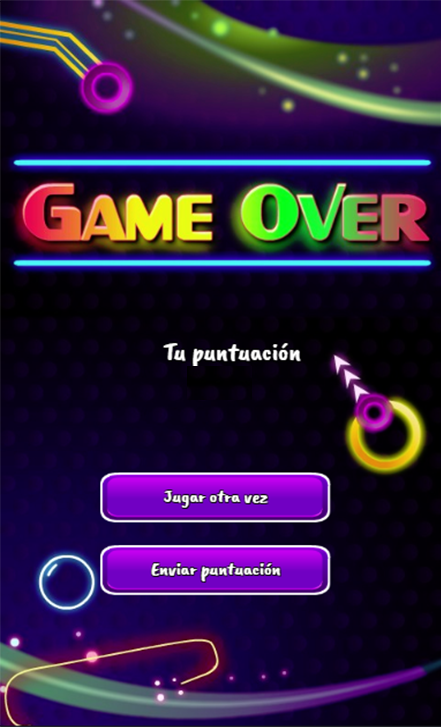
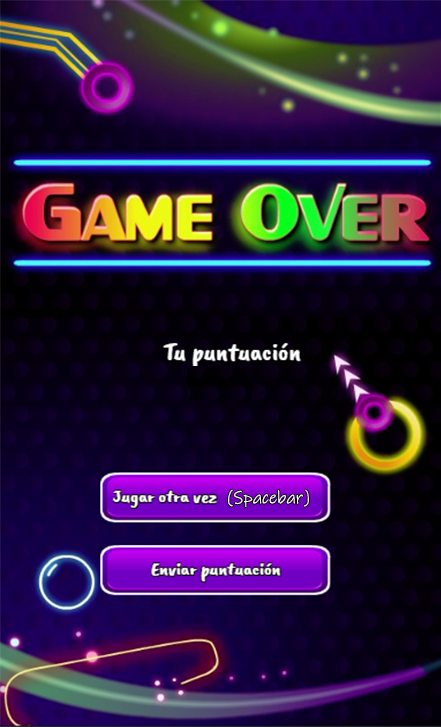
pass start and end screen with spacebar

Changed region(s): [[0.2358, 0.6657, 0.7075, 0.696]]

diff --git a/Pinball/ModuleMenu.cpp b/Pinball/ModuleMenu.cpp
@@ -29,22 +29,20 @@ bool ModuleMenu::Start()
 	App->physics->Disable();
 	App->endScene->Disable();
 	play = App->physics->CreateRectangleSensor(110, 366, 440, 100);
+	App->player->CleanUp();
 
 	return true;
 }
 
 update_status ModuleMenu::Update()
 {
-	if (App->input->GetMouseX() >= 115 && App->input->GetMouseX() <= 215 && App->input->GetMouseY() >= 340 && App->input->GetMouseY() <= 390)
+	if (App->input->GetKey(SDL_SCANCODE_SPACE) == KEY_DOWN)
 	{
-		if (App->input->GetMouseButton(SDL_BUTTON_LEFT) == KEY_DOWN)
-		{
-			App->physics->Enable();
-			App->scene_intro->Enable();
-			App->player->Enable();
+		App->physics->Enable();
+		App->scene_intro->Enable();
+		App->player->Enable();
 
-			this->Disable();
-		}
+		this->Disable();
 	}
 
 	App->renderer->Blit(menuTex, 0, 0, &menuRect);

diff --git a/Pinball/ModuleEnd.cpp b/Pinball/ModuleEnd.cpp
@@ -32,14 +32,13 @@ bool ModuleEnd::Start()
 
 update_status ModuleEnd::Update()
 {
-	if (App->input->GetMouseX() <= 215 && App->input->GetMouseX() >= 15 && App->input->GetMouseY() >= 340 && App->input->GetMouseY() <= 390)
+
+	if (App->input->GetKey(SDL_SCANCODE_SPACE) == KEY_DOWN)
 	{
-		if (App->input->GetMouseButton(SDL_BUTTON_LEFT) == KEY_DOWN)
-		{
-			App->menu->Enable();
-			this->Disable();
-		}
+		App->menu->Enable();
+		this->Disable();
 	}
+
 	App->renderer->Blit(initTex, 0, 0, &initRect);
 	return UPDATE_CONTINUE;
 }
